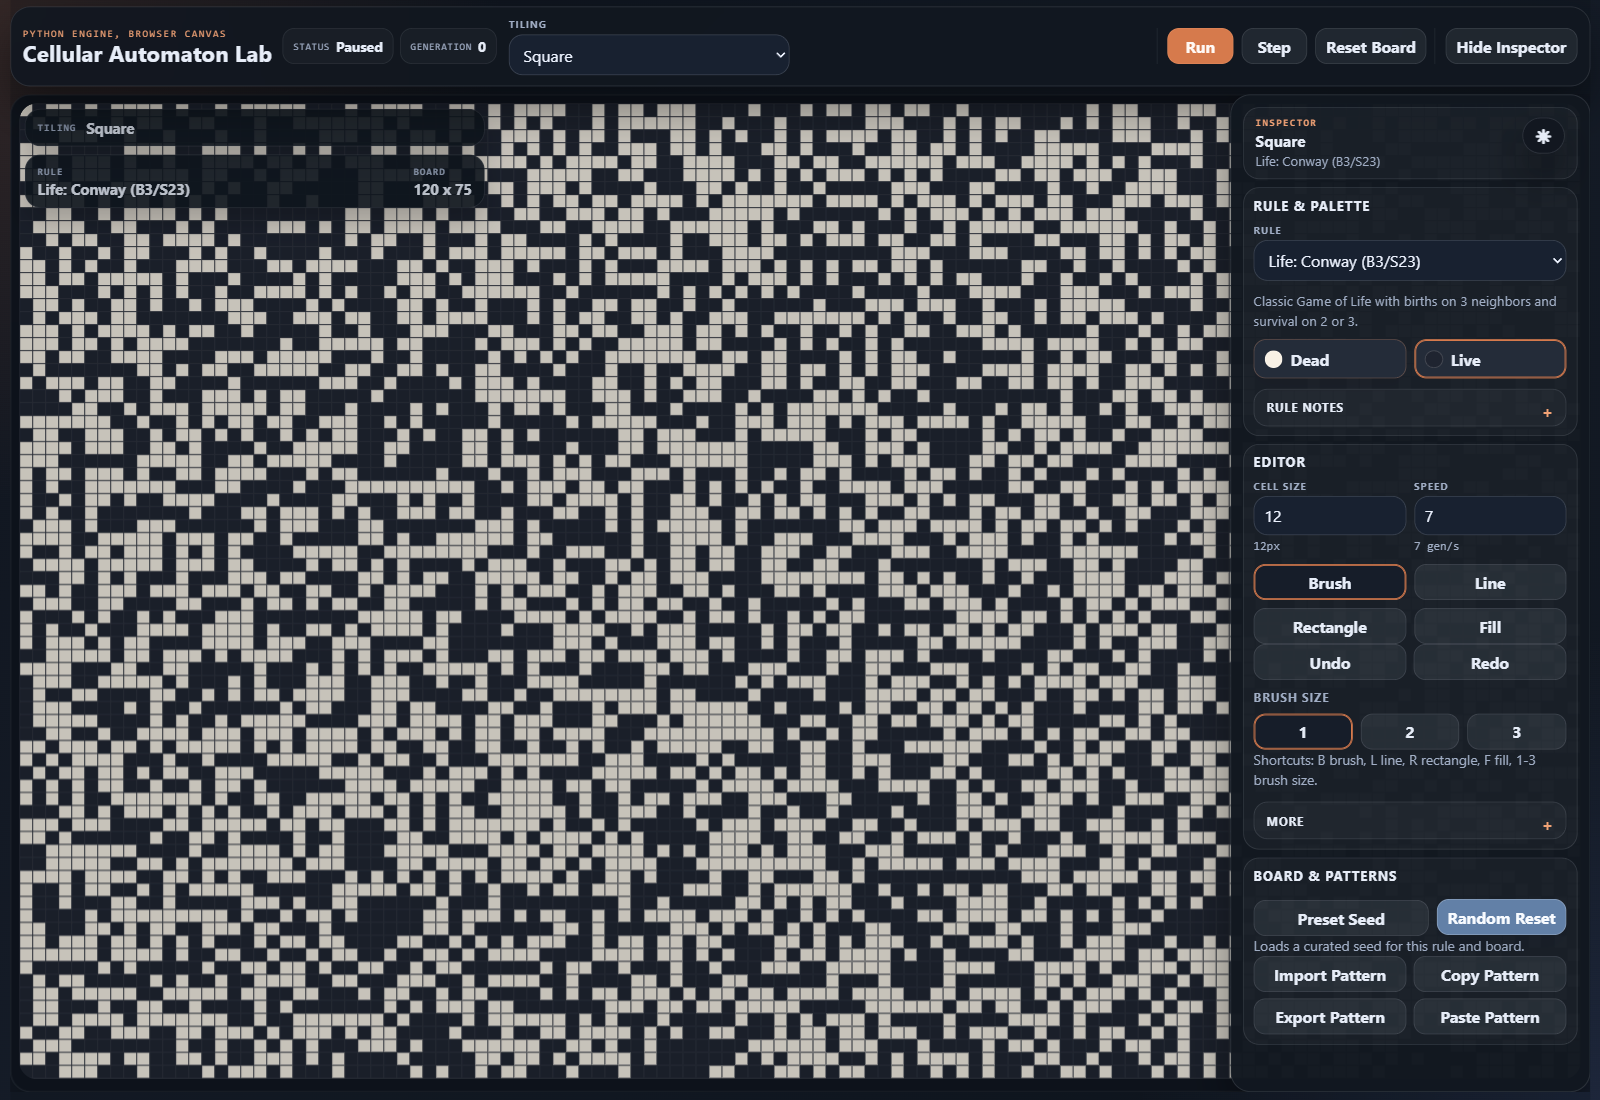
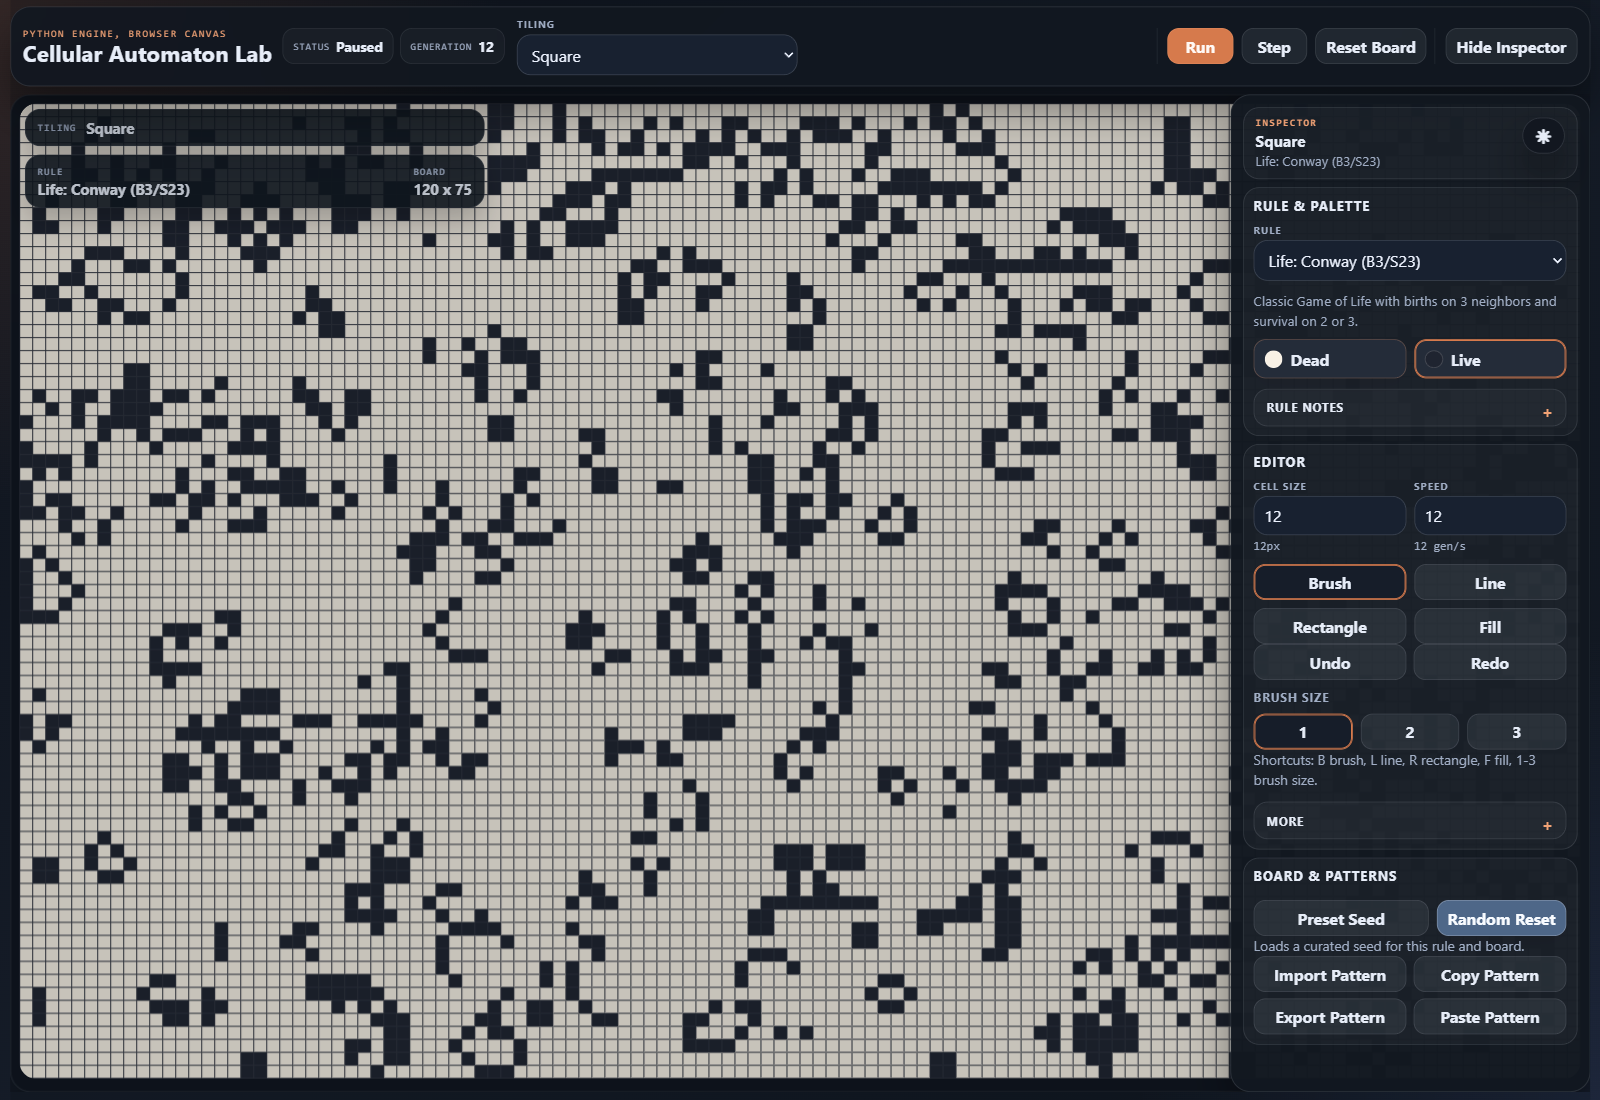
Refresh README screenshots with Kagome and evolved Conway views

diff --git a/README.md b/README.md
@@ -2,7 +2,7 @@
 
 Cellular Automaton Lab is a browser-based cellular automata playground built around topology-first boards. It supports classic lattices, periodic mixed tilings, and finite aperiodic patches in one app, with a Flask backend and a Vite-built TypeScript frontend.
 
-![Current canvas-first workspace on a square board](docs/images/readme-workspace-conway.png)
+![Current canvas-first workspace on a Kagome mixed-tiling board](docs/images/readme-workspace-kagome.png)
 
 ## Highlights
 
@@ -15,13 +15,13 @@ Cellular Automaton Lab is a browser-based cellular automata playground built aro
 
 ## Screenshots
 
-### Square board with Conway in the main workspace
-
-![Square board with Conway randomization](docs/images/readme-workspace-conway.png)
-
 ### Snub Trihexagonal mixed-tiling board with the inspector open
 
 ![Snub Trihexagonal mixed Life](docs/images/readme-snub-trihexagonal-overview.png)
+
+### Square board with Conway after several generations
+
+![Square board with evolved Conway patterns](docs/images/readme-workspace-conway.png)
 
 ### Penrose P3 Rhombs with patch-depth controls
 
